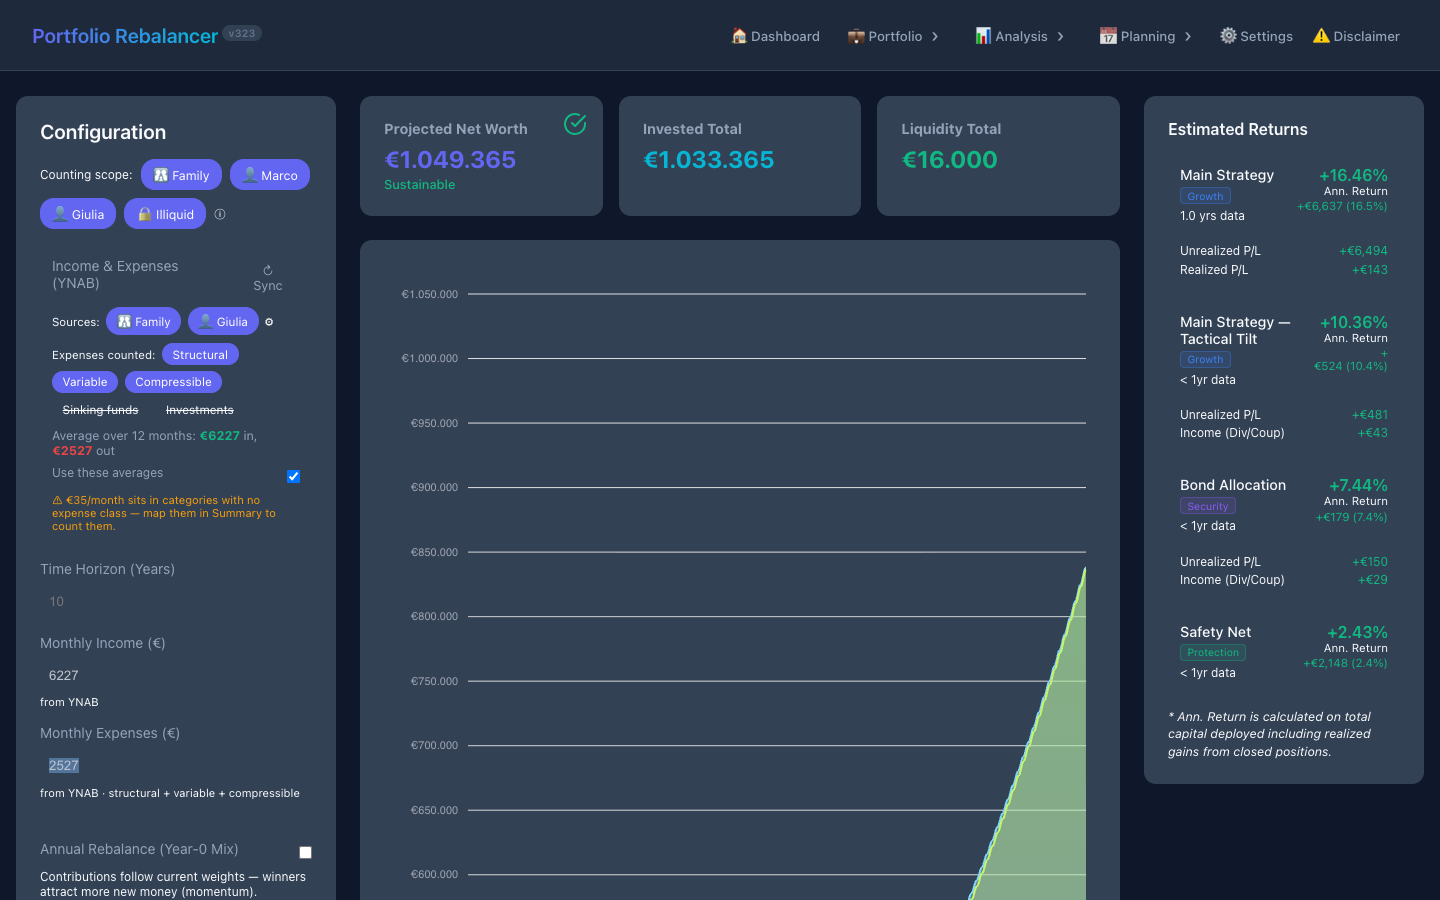
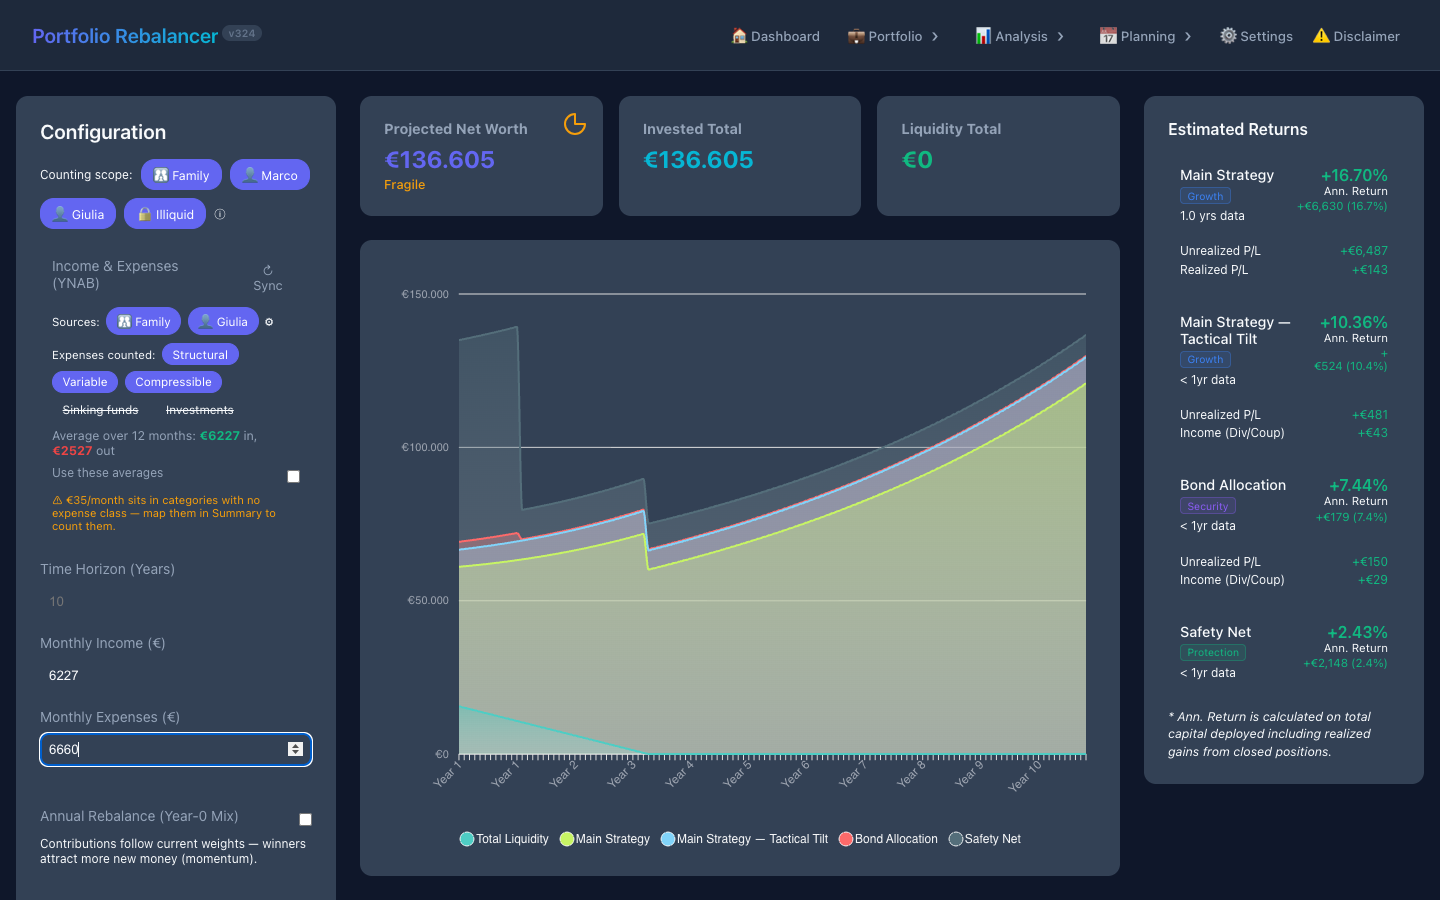
docs(forecast): refresh the chart screenshots, and make the risky/failed ones real
The four Forecast shots now show the screen-sized chart.

While regenerating them: the monthly-expense field is disabled while the
YNAB averages drive the cashflow, so the script's typing was a no-op and
both the "risky" and "failed" shots had been showing a sustainable plan.
Untick "Use these averages" first, and use expenses tuned to the mock
dataset — the fragile band is narrow and past it the plan goes straight
to insolvency.

diff --git a/scripts/take_screenshots.js b/scripts/take_screenshots.js
@@ -681,31 +681,46 @@ async function scrollAndShoot(page, base) {
     });
     await sleep(500);
   }
-  // Try to push the plan into risky/failed by inflating annual expense
+  // Push the plan into risky/failed by inflating the monthly expense. The field
+  // is disabled while the YNAB averages drive the cashflow, so untick those
+  // first — otherwise the typing is a no-op and both shots stay "Sustainable".
+  const averagesOff = await page.evaluate(() => {
+    const label = [...document.querySelectorAll('label')].find((l) => /use these averages/i.test(l.textContent));
+    const cb = label?.parentElement?.querySelector('input[type="checkbox"]');
+    if (!cb) return false;
+    if (cb.checked) cb.click();
+    return true;
+  });
+  if (!averagesOff) console.warn('  !! "Use these averages" toggle not found');
+  await sleep(600);
   const expenseInputs = await page.$$('input[type="number"]');
   if (expenseInputs.length) {
-    // Find an "expense" labeled input
     const idx = await page.evaluate(() => {
       const inputs = [...document.querySelectorAll('input[type="number"]')];
-      const i = inputs.findIndex((inp) => {
-        const label = inp.closest('label')?.textContent || inp.previousElementSibling?.textContent || '';
-        return /expense|spese|withdraw|annual/i.test(label);
-      });
-      return i;
+      return inputs.findIndex((inp) =>
+        /monthly expenses/i.test(inp.previousElementSibling?.textContent || '')
+      );
     });
     if (idx >= 0) {
+      // Tuned against the mock dataset: the fragile band is narrow, and past it
+      // the plan goes straight to insolvency.
       await expenseInputs[idx].click({ clickCount: 3 });
-      await expenseInputs[idx].type('50000');
-      await sleep(600);
+      await expenseInputs[idx].type('6660');
+      await sleep(800);
       await shot(page, 'forecast_riskyplan');
       await expenseInputs[idx].click({ clickCount: 3 });
-      await expenseInputs[idx].type('500000');
-      await sleep(600);
+      await expenseInputs[idx].type('9000');
+      await sleep(800);
       await shot(page, 'forecast_failed');
-      // restore
-      await expenseInputs[idx].click({ clickCount: 3 });
-      await expenseInputs[idx].type('15000');
+      // restore: hand the cashflow back to the YNAB averages
+      await page.evaluate(() => {
+        const label = [...document.querySelectorAll('label')].find((l) => /use these averages/i.test(l.textContent));
+        const cb = label?.parentElement?.querySelector('input[type="checkbox"]');
+        if (cb && !cb.checked) cb.click();
+      });
       await sleep(400);
+    } else {
+      console.warn('  !! Monthly Expenses input not found');
     }
   }
 
